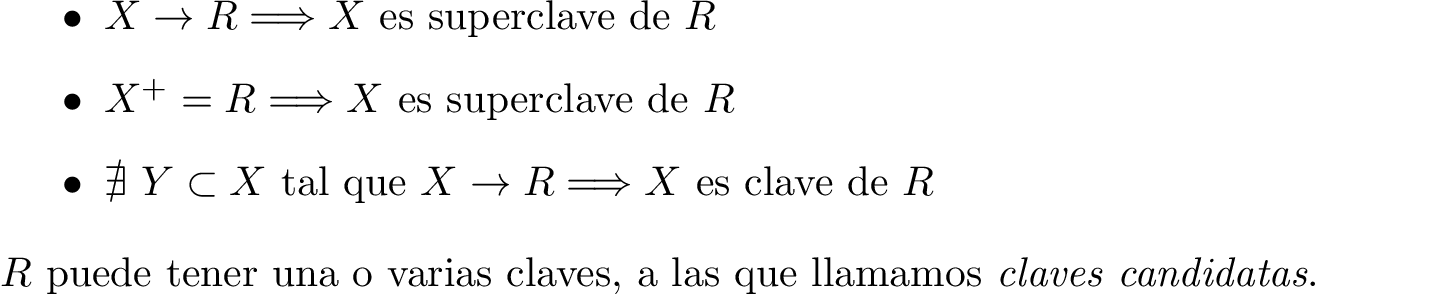
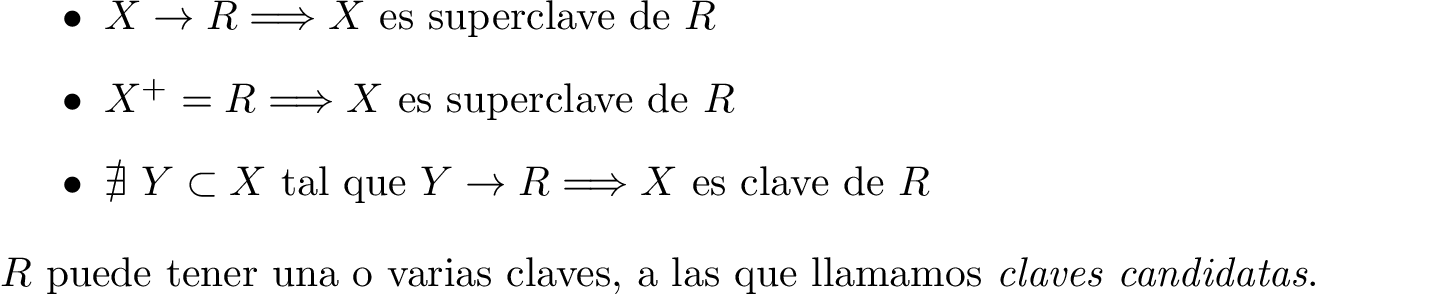
superclave y clave.

Changed region(s): [[0.4302, 0.551, 0.676, 0.6735], [0.2765, 0.551, 0.3994, 0.6735]]

diff --git a/present/tex/df-superclaves-claves.tex b/present/tex/df-superclaves-claves.tex
@@ -7,7 +7,7 @@
 \begin{itemize}
 \item $X\rightarrow R \Longrightarrow X \text{ es superclave de } R$
 \item $X^+ = R \Longrightarrow X \text{ es superclave de } R$
-\item $\nexists \text{ } Y \subset X \text{ tal que } X\rightarrow R \Longrightarrow X \text{ es clave de } R$
+\item $\nexists \text{ } Y \subset X \text{ tal que } Y\rightarrow R \Longrightarrow X \text{ es clave de } R$
 \end{itemize}
 $R$ puede tener una o varias claves, a las que llamamos \textit{claves candidatas}.
 \end{document}
